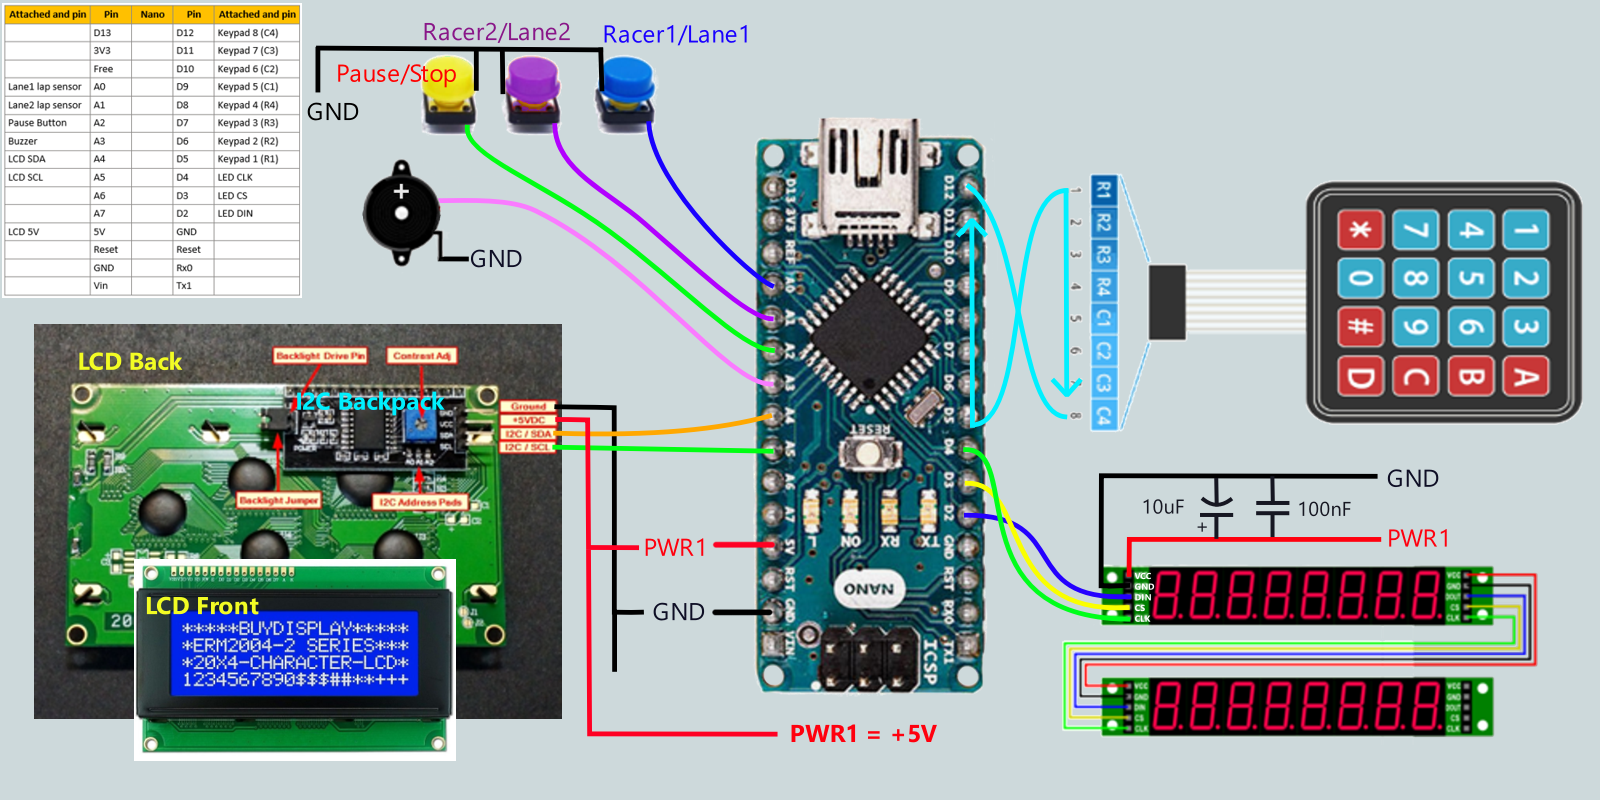
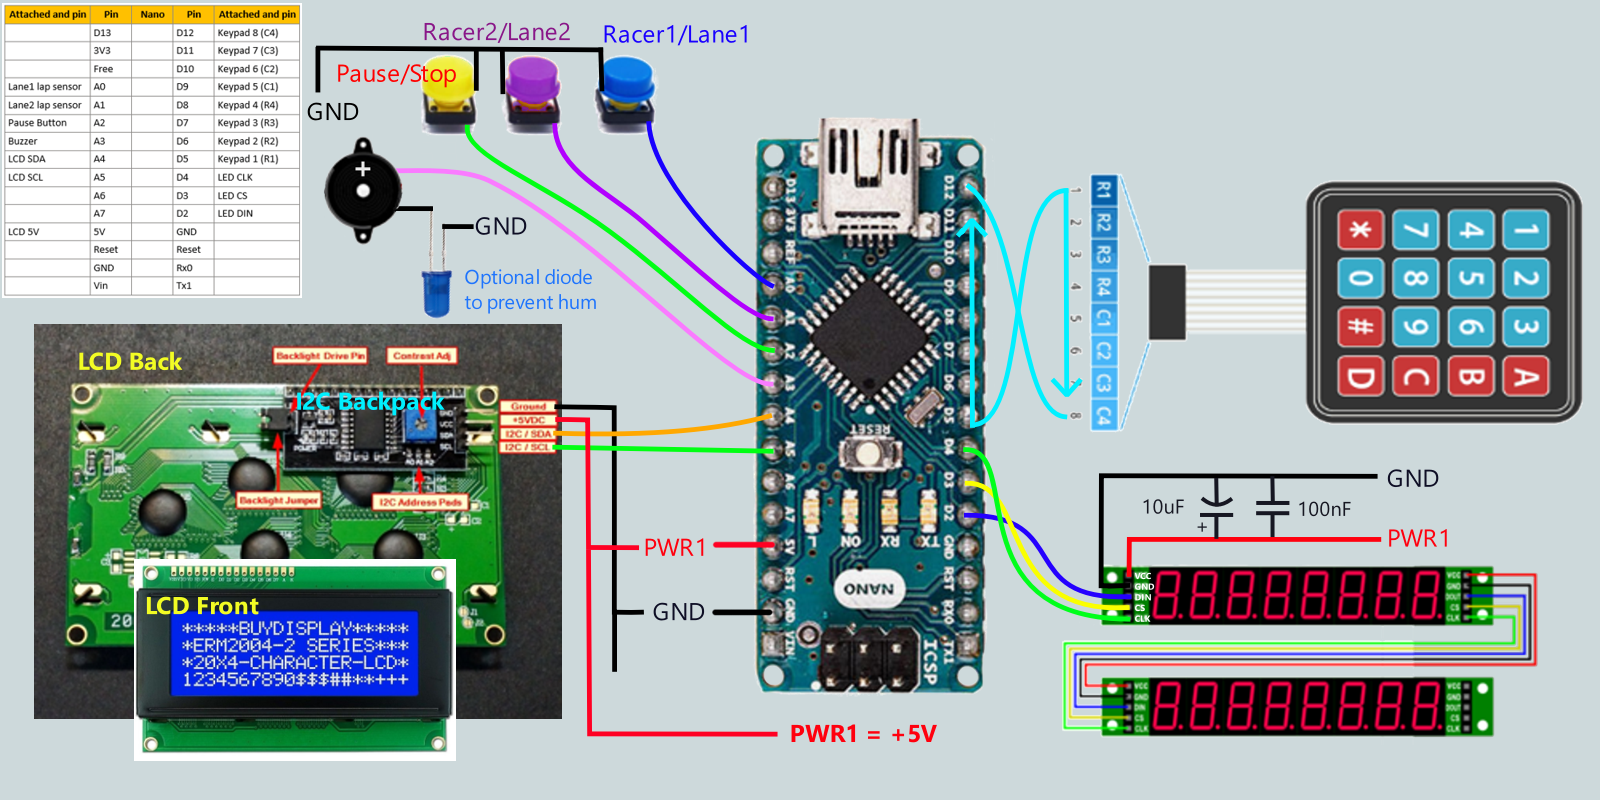
Updates to buzzer melody play function for array method. Racer victory song now plays when racers is selected in selection menu. Corrected buzzer hardware to 'Passive' buzzer. Active buzzer works in same circuit but sounds very muddy.

Changed region(s): [[0.1875, 0.1562, 0.4062, 0.4062], [0.4062, 0.375, 0.4375, 0.4375]]

diff --git a/melodies_prog.h b/melodies_prog.h
@@ -1,13 +1,34 @@
-// File of songs defined using pitch notes and tempo arrays
+// File of songs defined using pitch Notes[] and Lengths[] arrays.
 // This is an alternative method to using Rttl style songs and players.
-// Not included here, but the pitch constants called in this file
-// require 'pitches.h'. It should be included by the main sketch.
+
+// !!!!!!!!!!!!!!!!!!!!!!!!!!!!
+// The 'pitches.h' file is required to use this song data
+// It should be included by the main sketch and is commented out here.
 // #include "pitches.h"
 
+// ****** MELODY STRUCTURE **************
+// Each melody should be made up of 4 parts.
+//    mySongNameNotes[] is an array of frequencies in Hz, using pitch aliases
+//    mySongNameLengths[] is the corresponding note's length
+//      1 = whole note
+//      2 = half note
+//      4 = quarter note
+//      8 = eighth note
+//      16 = sixteenth note, etc.
+//    mySongNameTempo is a constant 0-255 of the beats per minute to play melody
+//    mySongNameCount holds the number of notes in the melody for easy reference
+
+// TEMPLATE for MELODY VARIABLES, COPY - PASTE - EDIT
+// const int zzzNotes[] PROGMEM = {
+
+// };
+// const int zzzLengths[] PROGMEM = {
+  
+// };
+// const int zzzCount = sizeof(zzzNotes)/sizeof(int);
+// const int zzzTempo = 135;
 
 
-// this files holds the tempo's and melodies of music to be played,
-// with the Slot Car Race Controller
 
 const int testMelodyNotes[] PROGMEM = {
   NOTE_C4, NOTE_G3,NOTE_G3, NOTE_A3, NOTE_G3, 0, NOTE_B3, NOTE_C4
@@ -15,7 +36,33 @@ const int testMelodyNotes[] PROGMEM = {
 const int testMelodyLengths[] PROGMEM = {
   4, 8, 8, 4, 4, 4, 4, 4
 };
-const int testMelodyCount = sizeof(testMelodyNotes)/sizeof(int); 
+const int testMelodyCount = sizeof(testMelodyNotes)/sizeof(int);
+const int testMelodyTempo = 85;
+
+
+
+const int imperialMarchNotes[] PROGMEM = {
+  NOTE_A4, NOTE_A4, NOTE_A4, NOTE_A4, NOTE_A4, NOTE_A4, NOTE_F4, 0,
+  NOTE_A4, NOTE_A4, NOTE_A4, NOTE_A4, NOTE_A4, NOTE_A4, NOTE_F4, 0,
+  NOTE_A4, NOTE_A4, NOTE_A4, NOTE_F4, NOTE_C5,
+
+  NOTE_A4, NOTE_F4, NOTE_C5, NOTE_A4,//4
+  NOTE_E5, NOTE_E5, NOTE_E5, NOTE_F5, NOTE_C5,
+  NOTE_A4, NOTE_F4, NOTE_C5, NOTE_A4,
+};
+const int imperialMarchLengths[] PROGMEM = {
+  -4, -4, 16, 16, 16, 16, 8, 8,
+  -4, -4, 16, 16, 16, 16, 8, 8,
+  4, 4, 4, -8, 16,
+
+  4, -8, 16, 2,//4
+  4, 4, 4, -8, 16,
+  4, -8, 16, 2,
+};
+const int imperialMarchCount = sizeof(imperialMarchNotes)/sizeof(int);
+const int imperialMarchTempo = 135;
+
+
 
 const int cScaleNotes[] PROGMEM = {
   NOTE_C4, NOTE_CS4, NOTE_D4, NOTE_DS4, NOTE_E4, NOTE_F4, NOTE_FS4, NOTE_G4,NOTE_GS4, NOTE_A4, NOTE_AS4, NOTE_B4, NOTE_C5
@@ -23,7 +70,13 @@ const int cScaleNotes[] PROGMEM = {
 const int cScaleLengths[] PROGMEM = {
   4, 4, 4, 4, 4, 4, 4, 4, 4, 4, 4, 4, 4
 };
-const int cScaleCount = sizeof(cScaleNotes)/sizeof(int); 
+const int cScaleCount = sizeof(cScaleNotes)/sizeof(int);
+const int cScaleTempo = 85;
+
+
+
+
+
 
 //Mario main theme melody
 const int marioMainThemeNotes[] PROGMEM = {
@@ -31,7 +84,6 @@ const int marioMainThemeNotes[] PROGMEM = {
   0, NOTE_C7, NOTE_E7, 0,
   NOTE_G7, 0, 0,  0,
 
-  
   NOTE_G6, 0, 0, 0,
 
   NOTE_C7, 0, 0, NOTE_G6,
@@ -81,7 +133,9 @@ const int marioMainThemeLengths[] PROGMEM = {
   12, 12, 12, 12,
   12, 12, 12, 12,
 };
-const int marioMainThemeCount = sizeof(marioMainThemeNotes)/sizeof(int); 
+const int marioMainThemeCount = sizeof(marioMainThemeNotes)/sizeof(int);
+const byte marioMainThemeTempo = 130;
+
 
 
 //Underworld melody
@@ -128,23 +182,9 @@ const int marioUnderworldLengths[] PROGMEM = {
   10, 10, 10,
   3, 3, 3
 };
-const int marioUnderworldCount = sizeof(marioUnderworldNotes)/sizeof(int); 
+const int marioUnderworldCount = sizeof(marioUnderworldNotes)/sizeof(int);
+const byte marioUnderworldTempo = 130;
 
-// The melody array 
-const int takeOnMe1Notes[] PROGMEM = {
-  NOTE_FS5, NOTE_FS5, NOTE_D5, NOTE_B4, NOTE_B4, NOTE_E5, 
-  NOTE_E5, NOTE_E5, NOTE_GS5, NOTE_GS5, NOTE_A5, NOTE_B5, 
-  NOTE_A5, NOTE_A5, NOTE_A5, NOTE_E5, NOTE_D5, NOTE_FS5, 
-  NOTE_FS5, NOTE_FS5, NOTE_E5, NOTE_E5, NOTE_FS5, NOTE_E5
-};
-// The note duration, 8 = 8th note, 4 = quarter note, etc.
-const int takeOnMe1Lengths[] PROGMEM = {
-  8, 8, 8, 4, 4, 4, 
-  4, 5, 8, 8, 8, 8, 
-  8, 8, 8, 4, 4, 4, 
-  4, 5, 8, 8, 8, 8
-};
-const int takeOnMe1Count = sizeof(takeOnMe1Notes)/sizeof(int);
 
 
 // The melody array 
@@ -154,12 +194,12 @@ const int takeOnMeNotes[] PROGMEM = {
   NOTE_A5, NOTE_A5, NOTE_A5, NOTE_E5, 0, NOTE_D5, 0, NOTE_FS5, 
   0, NOTE_FS5, 0, NOTE_FS5, NOTE_E5, NOTE_E5, NOTE_FS5, NOTE_E5,
 
-    NOTE_FS5, NOTE_FS5, NOTE_D5, NOTE_B4, 0, NOTE_B4, 0, NOTE_E5,
+  NOTE_FS5, NOTE_FS5, NOTE_D5, NOTE_B4, 0, NOTE_B4, 0, NOTE_E5,
   0, NOTE_E5, 0, NOTE_E5, NOTE_GS5, NOTE_GS5, NOTE_A5, NOTE_B5, 
   NOTE_A5, NOTE_A5, NOTE_A5, NOTE_E5, 0, NOTE_D5, 0, NOTE_FS5, 
   0, NOTE_FS5, 0, NOTE_FS5, NOTE_E5, NOTE_E5, NOTE_FS5, NOTE_E5,
 
-    NOTE_FS5, NOTE_FS5, NOTE_D5, NOTE_B4, 0, NOTE_B4, 0, NOTE_E5,
+  NOTE_FS5, NOTE_FS5, NOTE_D5, NOTE_B4, 0, NOTE_B4, 0, NOTE_E5,
   0, NOTE_E5, 0, NOTE_E5, NOTE_GS5, NOTE_GS5, NOTE_A5, NOTE_B5, 
   NOTE_A5, NOTE_A5, NOTE_A5, NOTE_E5, 0, NOTE_D5, 0, NOTE_FS5, 
   0, NOTE_FS5, 0, NOTE_FS5, 0
@@ -181,8 +221,10 @@ const int takeOnMeLengths[] PROGMEM = {
   8, 8, 8, 8, 8, 8, 8, 8,
   8, 8, 8, 8, 2
 };
-const byte takeOnMeTempo = 160;
 const int takeOnMeCount = sizeof(takeOnMeNotes)/sizeof(int);
+const byte takeOnMeTempo = 160;
+
+
 
 const int knightRiderNotes[] PROGMEM = {
   // 1
@@ -244,7 +286,6 @@ const int knightRiderNotes[] PROGMEM = {
   NOTE_A5, NOTE_AS5, NOTE_A5, NOTE_E5,
   NOTE_A4, NOTE_AS4, NOTE_A4, NOTE_E5, NOTE_A5, NOTE_AS5, NOTE_G5, NOTE_A5
 };
-
 const int knightRiderLengths[] PROGMEM = {
   // 1
   250, 125, 125,
@@ -305,6 +346,65 @@ const int knightRiderLengths[] PROGMEM = {
   250, 125, 125, 1500,
   250, 125, 125, 250, 250, 40, 250, 500
 };
-
 const int knightRiderCount = sizeof(knightRiderNotes)/sizeof(int);
+const byte knightRiderTempo = 0;
+
+
+
+const int gameOfThronesNotes[] PROGMEM = {
+  NOTE_G4, NOTE_C4, NOTE_DS4, NOTE_F4, NOTE_G4, NOTE_C4, NOTE_DS4, NOTE_F4, //1
+  NOTE_G4, NOTE_C4, NOTE_DS4, NOTE_F4, NOTE_G4, NOTE_C4, NOTE_DS4, NOTE_F4,
+  NOTE_G4, NOTE_C4, NOTE_E4, NOTE_F4, NOTE_G4, NOTE_C4, NOTE_E4, NOTE_F4,
+  NOTE_G4, NOTE_C4, NOTE_E4, NOTE_F4, NOTE_G4, NOTE_C4, NOTE_E4, NOTE_F4,
+  NOTE_G4, NOTE_C4,//5
+
+  NOTE_DS4, NOTE_F4, NOTE_G4, NOTE_C4, NOTE_DS4, NOTE_F4, //6
+  NOTE_D4, //7 and 8
+  NOTE_F4, NOTE_AS3,
+  NOTE_DS4, NOTE_D4, NOTE_F4, NOTE_AS3,
+  NOTE_DS4, NOTE_D4, NOTE_C4, //11 and 12
+
+  NOTE_G4, NOTE_C4,//5
+  
+  NOTE_DS4, NOTE_F4, NOTE_G4, NOTE_C4, NOTE_DS4, NOTE_F4, //6
+  NOTE_D4, //7 and 8
+  NOTE_F4, NOTE_AS3,
+  NOTE_DS4, NOTE_D4, NOTE_F4, NOTE_AS3,
+  NOTE_DS4, NOTE_D4, NOTE_C4, //11 and 12
+  NOTE_G4, NOTE_C4,
+  NOTE_DS4, NOTE_F4, NOTE_G4,  NOTE_C4, NOTE_DS4, NOTE_F4,
+};
+const int gameOfThronesLengths[] PROGMEM = {
+  8, 8, 16, 16, 8, 8, 16, 16, //1
+  8, 8, 16, 16, 8, 8, 16, 16,
+  8, 8, 16, 16, 8, 8, 16, 16,
+  8, 8, 16, 16, 8, 8, 16, 16,
+  -4, -4,//5
+
+  16, 16, 4, 4, 16, 16, //6
+  -1, //7 and 8
+  -4, -4,
+  16, 16, 4, -4,
+  16, 16, -1, //11 and 12
+  
+  -4, -4,//5
+  
+  16, 16, 4, 4, 16, 16, //6
+  -1, //7 and 8
+  -4, -4,
+  16, 16, 4, -4,
+  16, 16, -1, //11 and 12
+  -4, -4,
+  16, 16, 4,  4, 16, 16,
+};
+const int gameOfThronesCount = sizeof(gameOfThronesNotes)/sizeof(int);
+const byte gameOfThronesTempo = 110;
+
+
+
+
+
+
+
+
 

diff --git a/README.md b/README.md
@@ -27,7 +27,8 @@ All of the components are readily available and can be connected with basic jump
 - [4 x 4 membrane keypad](https://duckduckgo.com/?q=4+x+4+membrane+keypad)
 - [LCD2004 4 row x 20 character display](https://duckduckgo.com/?q=LCD2004A+4+x+20+I2C+backpack), with [I2C backpack](https://www.mantech.co.za/datasheets/products/LCD2004-i2c.pdf)
 - 2 Chainable, [8-digit, 7-segment LED bar with integrated MAX7219](https://duckduckgo.com/?q=8-digit%2C+7-segment+LED+display)
-- Active Buzzer (DC compatible) or speaker, 5V
+- Passive Buzzer or speaker
+  - The 7-seg LEDs induced a hum on my buzzer, I used a diode on one lead to eliminate it.
 - 2-4 lap sensors/switches/buttons
 - 1 momentary button for in game pause and restart
 - Jumper leads to wire connections between peripherals & Arduino
@@ -44,7 +45,7 @@ All of the components are readily available and can be connected with basic jump
 |Lane1 lap sensor|A0   |\-- |D9   |Keypad 5 (C1)   |
 |Lane2 lap sensor|A1   |\-- |D8   |Keypad 4 (R4)   |
 |Pause Button    |A2   |\-- |D7   |Keypad 3 (R3)   |
-|Buzzer          |A3   |\-- |D6   |Keypad 2 (R2)   |
+|Passive Buzzer  |A3   |\-- |D6   |Keypad 2 (R2)   |
 |LCD SDA         |A4   |\-- |D5   |Keypad 1 (R1)   |
 |LCD SCL         |A5   |\-- |D4   |LED CLK         |
 |                |A6   |\-- |D3   |LED CS          |
@@ -323,62 +324,71 @@ Now that we have a melody transcribed into an array of frequencies and durations
 Because we have many songs to play we'll create a set of global reference variables that we can use to point to different song data variables. We use pointers to the data arrays instead of a temporary copy, to save memory, and because we have songs of different sizes. Managing dynamic array sizing is an uncessary, memory fragmenting, challenge.
 
 ```cpp
-// Globals for holding the current reference song data
+// Globals for holding the current melody data references.
 int *playingNotes;
-int *playingLengths;
-int songLength;
-// Default tempo to 0 which means, use note length value as raw milliseconds
-byte activeTempoBPM = 0;
+int *playingLengths;                                                            
+byte playingTempoBPM = 135;
+int playingCount = 0;
 // flag to indicate to the main program loop whether a melody is in process
 // so it should execute the 'PlayNote()' function with the current melody parameters.
 bool melodyPlaying = false;
-// Holds the time of last tone played so timing of next note in melody can be determined
+// Holds the timestamp of last tone played so timing of next note in melody can be determined
 unsigned long lastNoteMillis = 0;
+// index of the current note to play of 'playing...' song.
 int melodyIndex = 0;
 // time in ms between beginning of last note and when next note should be played.
 int noteDelay = 0;
 
-int PlayNote(int *songNotes, int *songLengths, int curNoteIdx, byte tempoBPM = 0){
+// Function to play the current note index of a melody using 'tone()'.
+// We want to pass all the variables instead of depending on their globality.
+int PlayNote(int *songNotes, int *songLengths, int curNoteIdx, byte tempoBPM){
   int noteDuration;
-  // If tempo is zero then use length directly as ms duration
+  int noteLength = pgm_read_word(&songLengths[curNoteIdx]);
+  // If tempo = 0 then use note length directly as ms duration
   if(tempoBPM == 0){
-    noteDuration = pgm_read_word(&songLengths[curNoteIdx]);
+    noteDuration = noteLength;
   } else {
-    // Otherwise calculate duration from bpm:
+    // Otherwise calculate duration in ms from bpm:
     // (60,000ms/min)/Xbpm * 4beats/note * 1/notelength
-    noteDuration = (60000 / tempoBPM) * 4 * ( 1.0 / pgm_read_word(&songLengths[curNoteIdx]) );
+    // Make sure equation has a decimal or result will be incorrect integer math.
+    if (noteLength > 0){
+      noteDuration = (60000 / tempoBPM) * 4 * (1.0 / noteLength);
+    } else {
+      // If note length is negative, then it's dotted so add extra half length.
+      noteDuration = 1.5 * (60000 / tempoBPM) * 4 * (1 / abs(noteLength));
+    }
   }
-  // Mark time this note began
+  // Record millisecond timestamp at start of new note.
   lastNoteMillis = millis();
+  // Play note
   tone(buzzPin1, pgm_read_word(&songNotes[curNoteIdx]), noteDuration);
   melodyIndex++;
-
-  if(curNoteIdx == songLength - 1){
-    // When done turn play flag off and reset the play tracking variables.
+  // If we have reached the end of the melody array then
+  // flip playing flag off and reset tracking variables for next melody.
+  if(curNoteIdx == playingCount - 1){
     melodyPlaying = false;
-    noTone(buzzPin1);
     melodyIndex = 0;
     noteDelay = 0;
-    songLength = 0;
+    playingCount = 0;
+    noTone(buzzPin1);
   }
-  // Digital notes have no transition break so can sound unatural
+  // Buzzer notes have no transition time or strike impulse.
+  // So when played as written, each note sounds unaturally run together.
   // Making the time between notes slightly longer than the note will
-  // create a small break to make the melody sound more natural.
-  // the note's duration + 10% seems to work well:
+  // create a small break, giving the melody a more natural sound.
+  // Factoring + 5-10% seems to be enough.
   return noteDuration * 1.1;
+  //***this will make the true tempo slightly slower.
+  // So increase the song's set tempo from the music sheet to accomodate.
 }
 
 void loop() {
   if(melodyPlaying){
     if(millis() - lastNoteMillis >= noteDelay){
-      // songs like Knight rider duration is in ms are 'raw = true'
-      // songs like Take On Me use inverse notes 4 = 1/4note, 8=1/8th, etc.
-      // these are considered 'raw = false'. 
       noteDelay = PlayNote(playingNotes, playingLengths, melodyIndex, false);
     }
-  } else {
-    noTone(buzzPin1);
   }
+  
   --- other code ---
   // To play a song we set the flag to true and re-assign song pointer to desired tune.
   melodyPlaying = true;
@@ -417,7 +427,6 @@ const int takeOnMeNotes[] PROGMEM = {
   NOTE_A5, NOTE_A5, NOTE_A5, NOTE_E5, 0, NOTE_D5, 0, NOTE_FS5, 
   0, NOTE_FS5, 0, NOTE_FS5, 0
 };
-// The note duration, 8 = 8th note, 4 = quarter note, etc.
 const int takeOnMeLengths[] PROGMEM = {
   8, 8, 8, 8, 8, 8, 8, 8,
   8, 8, 8, 8, 8, 8, 8, 8,
